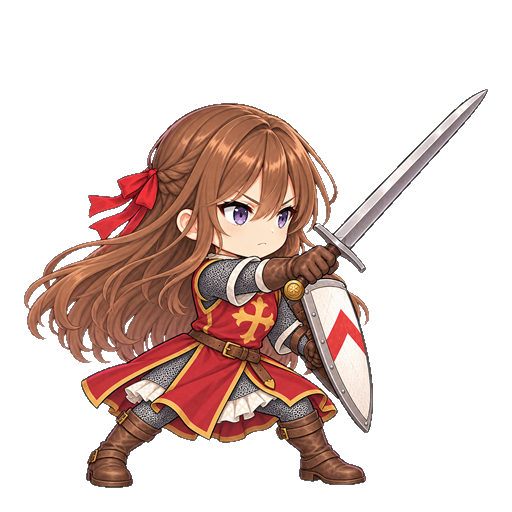
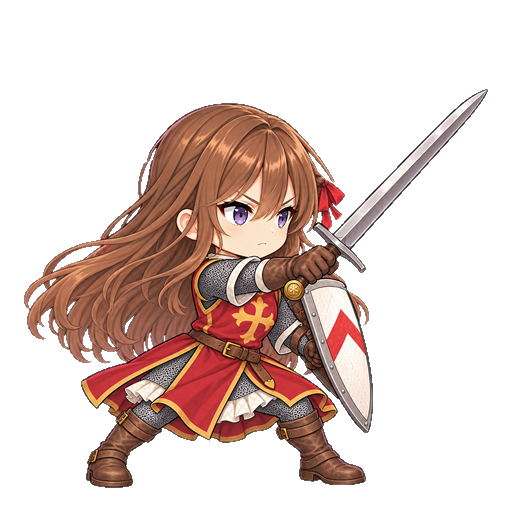
Art S03: SD attack ribbon moved to face-side temple (mask edit only)

Changed region(s): [[0.1562, 0.2812, 0.375, 0.4688], [0.5938, 0.3125, 0.6875, 0.4688]]

diff --git a/art/steps/S03.md b/art/steps/S03.md
@@ -59,6 +59,9 @@
 > 사용자 피드백을 여기에 날짜와 함께 적는다. 이미지별 피드백은 id를 적는다.
 > 예: `2026-10-16 · C01_sd_idle: 칼을 더 크게, 표정은 더 자신만만하게`
 
+- 2026-10-15 · C01_portrait_combat_smile, C01_sd_idle: 좋음. 그대로 둔다
+- 2026-10-15 · C01_sd_attack: 리본과 작은 땋은 머리만 반대쪽에 있다. **새로 생성하지 않는다.** 현재 `C01_sd_attack.png`에서 뒤통수 쪽(보는 사람 기준 왼쪽)의 붉은 리본과 땋은 머리를 마스크 편집으로 지우고(그 자리는 주변처럼 풀어 내린 갈색 머리로), 얼굴 쪽 관자놀이(보는 사람 기준 오른쪽, C01_sd_idle과 같은 쪽)에 같은 리본과 땋은 머리를 그린다. 포즈, 칼, 방패, 옷, 얼굴, 크기, 발끝 위치는 바꾸지 않는다. 기준: `C01_sd_idle.png`
+
 (아직 없음)
 
 ## 진행 기록 · 2026-10-15
@@ -84,3 +87,19 @@
 - 승인 neutral/style-anchor SHA256: DC4C674A7A73424CC330B8171B435885EC1813CD04A0DC65B91019C24C1BCC78. 승인 ref SHA256: C900341B520065F6B47E29F65C439178E17F6D350D1AC277BD525991E413C7D4. 승인 PNG와 기존 프롬프트 6파일 해시 유지 확인.
 - 재현 도구: `tools/art/finish_s03.ps1`, `tools/art/verify_s03.ps1`. 마스크·차이 이미지·체커보드·실패 이력·수치 보고: `art/raw/qa_S03/`. `verification.json`은 저장 PNG 수치 검증 범위와 별도의 디자인 실패를 구분해 기록함.
 - README S02=승인, S03=검토 대기, S04=대기. 커밋·푸시 없음.
+
+
+## C01_sd_attack 마스크 재작업 기록 · 2026-10-15
+
+[S03 보고]
+만든 것: C01_sd_attack → art/final/characters/C01_lina/C01_sd_attack.png. 기존 PNG의 리본·땋은 머리 영역만 마스크 편집. 뒤통수 쪽(화면 왼쪽)을 풀어 내린 갈색 머리로 교체하고 얼굴 쪽 관자놀이(화면 오른쪽)로 리본·작은 땋은 머리를 이동. 디자인 및 수치 QA 통과하여 이 id만 generated.
+재시도한 것: 이번 재작업은 내장 image_gen 국소 편집 1회, 재시도 0회. 이전 3회 실패 이력은 보존하며 이번 편집으로 해당 좌우 오류 해소. 새 전신 생성 없음.
+스스로 본 문제: 새 문제 없음. 내장 도구에 명시적 마스크 인자가 없어 style-guide 3.1.4 대체 절차로 고정 마스크 안만 원본에 합성. 기존 화면 목업 검사는 미수행 상태.
+확인 요청: 얼굴 쪽 리본·작은 땋은 머리의 위치와 주변 머리 연결을 시각 검토. 사용자 승인 처리·S04·git commit/push 없이 S03 검토 대기에서 멈춤.
+
+- 편집 전 원본 및 기존 프롬프트 백업: `art/raw/C01_sd_attack_rework_20261015_01/C01_sd_attack_before.png`, `C01_sd_attack_before.prompt.txt`.
+- 사전에 고정한 마스크: 같은 폴더 `edit_mask.png` (두 국소 영역, 안쪽 4px 페더). 도구 후보는 `tool_edit_01.png`, 마스크 합성 및 검증은 `tools/art/rework_s03_attack.ps1`.
+- 저장 PNG 독립 재검사: 마스크 밖 RGBA 변경 **0픽셀**. 전체 변경 7,772픽셀, 변경 bbox [88,134,344,242]. 알파 변경 2,908픽셀은 전부 마스크 안. 얼굴·포즈·칼·방패·옷·몸 크기와 발 위치 유지.
+- 알파: 안쪽 255, 반투명 4,488픽셀은 가장자리 1~2px 안; 2px보다 깊은 반투명 **0픽셀**. 이진 알파 아님. 512×512 유지, 최하단 y=487, 하단 24행 투명, 발 영역 y400~511 RGBA 변경 **0픽셀**.
[1 lines of base64/hex data omitted]
+- 마스크·체커보드·머리 확대·차이 이미지·검증 JSON은 `art/raw/C01_sd_attack_rework_20261015_01/`에 보존. 최종 `.prompt.txt`에 도구/날짜/참조/실제 전체 편집 프롬프트/후처리/QA를 덧붙임. 과거 실패 기록은 현재 최종본 이전 이력으로 유지.
